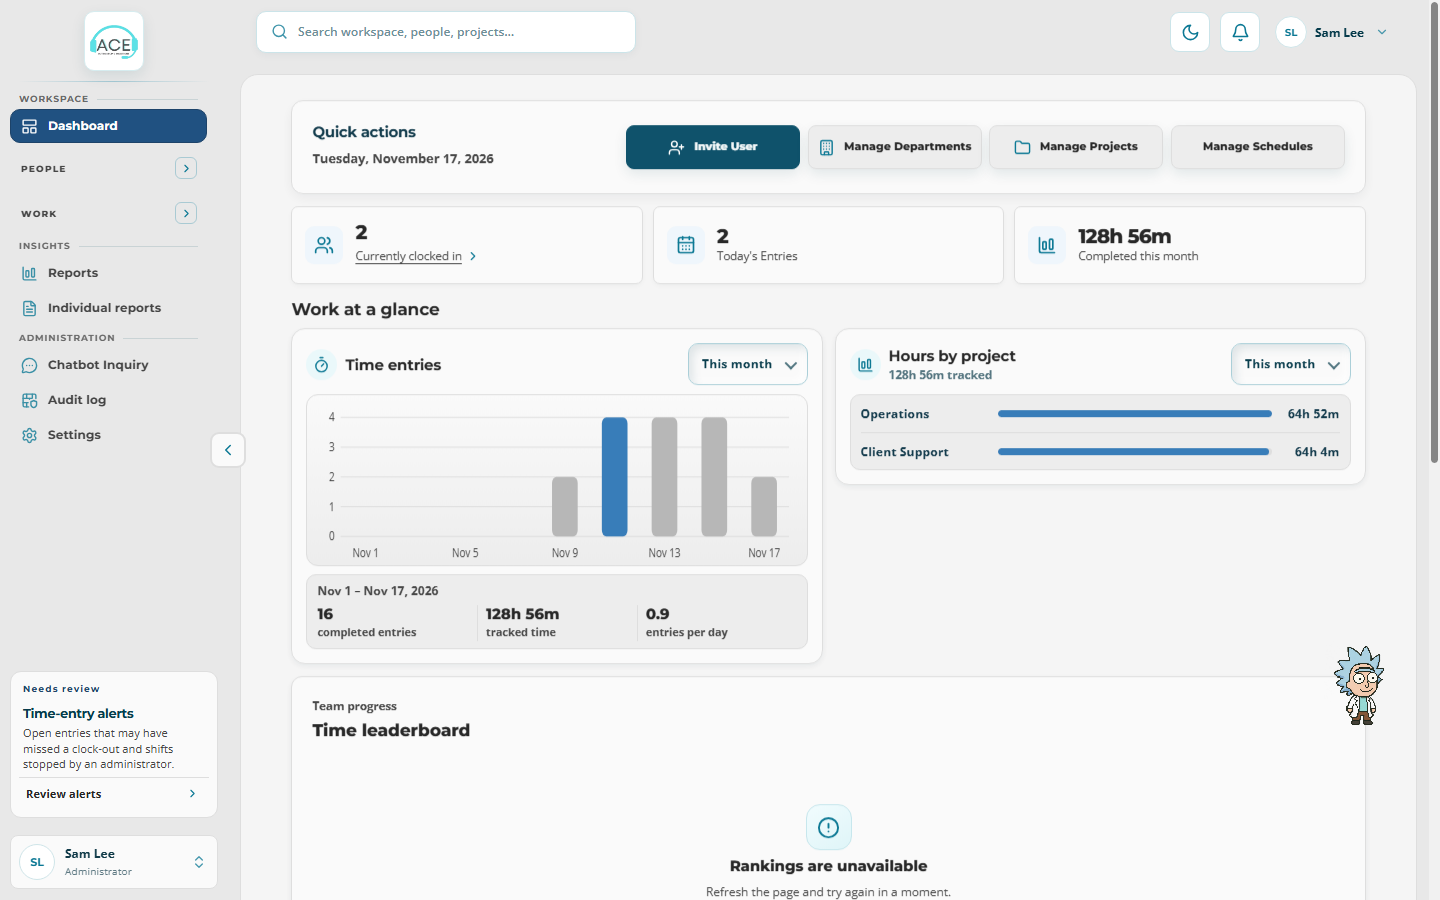
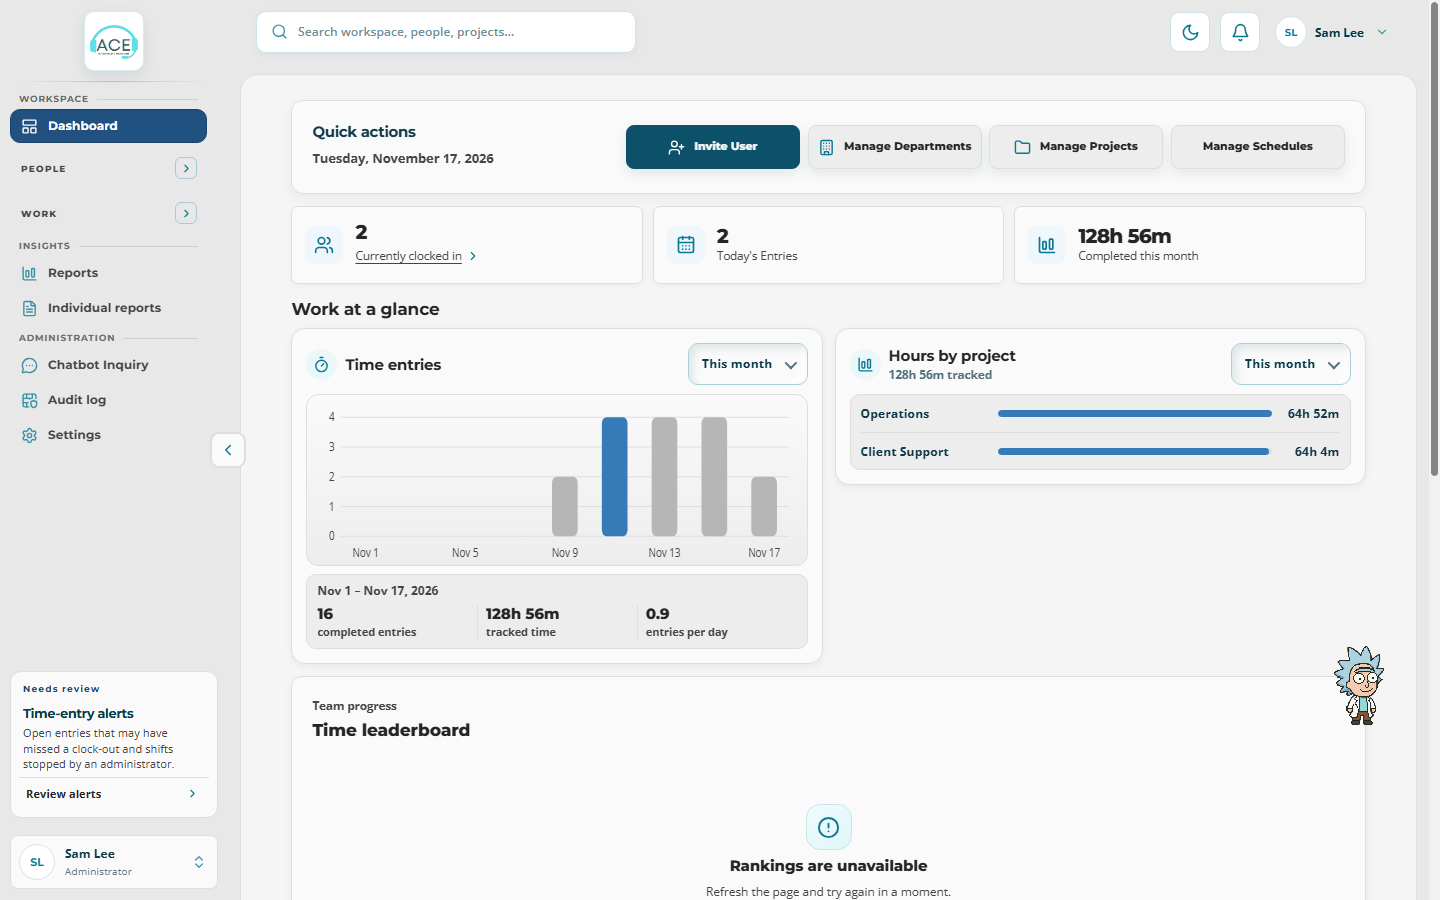
Replace card descriptions with compact help tips

Changed region(s): [[0.5312, 0.9956, 0.5938, 1.0], [0.25, 0.28, 0.3125, 0.3111]]

diff --git a/frontend/js/script.js b/frontend/js/script.js
@@ -1254,7 +1254,109 @@ function mountRelatedPageTabs() {
     }
 }
 
+// Move supporting copy into a shared help tip for compact workspace headers.
+const cardTipHeaders = [
+    '.dashboard-section-heading', '.admin-section-header', '.employee-section-heading',
+    '.schedule-card-heading', '.table-header', '.active-entries-heading-copy',
+    '.settings-header', '.reports-header', '.shell-sidebar-updates-panel'
+].join(',');
+let cardTipSequence = 0;
+let openCardTip;
+let pinnedCardTip;
+
+function closeCardTip() {
+    if (!openCardTip) return;
+    const { tip } = openCardTip;
+    openCardTip = null;
+    pinnedCardTip = null;
+    if (tip.matches(':popover-open')) tip.hidePopover();
+    tip.hidden = true;
+}
+
+function showCardTip(control) {
+    if (openCardTip?.button === control.button) return;
+    closeCardTip();
+    const { button, tip, description } = control;
+    tip.textContent = description.textContent.trim();
+    if (!tip.textContent) return;
+    tip.hidden = false;
+    if (tip.showPopover) tip.showPopover();
+    const anchor = button.getBoundingClientRect();
+    const width = tip.offsetWidth;
+    const left = Math.max(8, Math.min(anchor.left, document.documentElement.clientWidth - width - 8));
+    const top = anchor.bottom + tip.offsetHeight + 8 < window.innerHeight
+        ? anchor.bottom + 6 : Math.max(8, anchor.top - tip.offsetHeight - 6);
+    tip.style.left = left + 'px';
+    tip.style.top = top + 'px';
+    openCardTip = control;
+}
+
+function initializeCardTips(root) {
+    const headers = new Set(root.querySelectorAll(cardTipHeaders));
+    const parentHeader = root.closest?.(cardTipHeaders);
+    if (parentHeader) headers.add(parentHeader);
+    headers.forEach(header => {
+        if (header.dataset.cardTipReady) return;
+        const heading = header.querySelector(':scope > h1, :scope > h2, :scope > div > h1, :scope > div > h2');
+        if (!heading) return;
+        const description = heading.nextElementSibling || (heading.parentElement !== header ? heading.parentElement.nextElementSibling : null);
+        if (!description?.matches('p:not([role]):not([aria-live])') || !description.textContent.trim()) return;
+
+        header.dataset.cardTipReady = 'true';
+        const titleRow = document.createElement('div');
+        titleRow.className = 'card-heading-line';
+        heading.before(titleRow);
+        titleRow.append(heading);
+        const button = document.createElement('button');
+        button.type = 'button';
+        button.className = 'card-tip-button';
+        button.setAttribute('aria-label', 'About ' + heading.textContent.trim());
+        button.innerHTML = suppliedIconMarkup('info', 'ui-icon');
+        if (!description.id) description.id = 'aceCardTip' + (++cardTipSequence);
+        button.setAttribute('aria-describedby', description.id);
+        description.hidden = true;
+        description.classList.add('card-tip-source');
+        titleRow.append(button);
+
+        const tip = document.createElement('span');
+        tip.className = 'card-tip-popup';
+        tip.setAttribute('aria-hidden', 'true');
+        tip.setAttribute('popover', 'manual');
+        tip.hidden = true;
+        titleRow.append(tip);
+        const control = { button, tip, description };
+        button.addEventListener('pointerenter', event => {
+            if (event.pointerType !== 'touch') showCardTip(control);
+        });
+        button.addEventListener('pointerleave', () => {
+            if (openCardTip === control && pinnedCardTip !== control && document.activeElement !== button) closeCardTip();
+        });
+        button.addEventListener('focus', () => showCardTip(control));
+        button.addEventListener('blur', () => {
+            if (openCardTip === control) closeCardTip();
+        });
+        button.addEventListener('click', () => {
+            if (pinnedCardTip === control) { closeCardTip(); return; }
+            showCardTip(control);
+            if (openCardTip === control) pinnedCardTip = control;
+        });
+    });
+}
+
+document.addEventListener('pointerdown', event => {
+    if (openCardTip && !openCardTip.button.contains(event.target)) closeCardTip();
+}, true);
+document.addEventListener('keydown', event => {
+    if (event.key === 'Escape' && openCardTip) {
+        event.preventDefault();
+        closeCardTip();
+    }
+});
+window.addEventListener('scroll', closeCardTip, { capture: true, passive: true });
+window.addEventListener('resize', closeCardTip);
+
 function initializeUXEnhancements() {
+    initializeCardTips(document);
     mountRelatedPageTabs();
     document.querySelectorAll('.modal').forEach(modal => {
         modal.setAttribute('role', 'dialog');
@@ -1283,7 +1385,13 @@ function initializeUXEnhancements() {
             mutations.forEach(mutation => mutation.addedNodes.forEach(node => {
                 if (node.nodeType === Node.ELEMENT_NODE) roots.add(node);
             }));
-            roots.forEach(root => applyTableLabels(root.closest?.('table') || root));
+            roots.forEach(root => {
+                applyTableLabels(root.closest?.('table') || root);
+                if (root.isConnected) initializeCardTips(root);
+            });
+            mutations.forEach(({ target }) => {
+                if (target.id === 'sectionDescription') initializeCardTips(target);
+            });
         });
         window.__aceTableLabelObserver.observe(document.body, { childList: true, subtree: true });
     }

diff --git a/frontend/css/app.css b/frontend/css/app.css
@@ -18512,3 +18512,67 @@ html[data-theme="dark"] .admin-dashboard .project-allocation-card .project-alloc
 @media (max-height: 560px) {
   .shell-sidebar-review-description { display: none; }
 }
+
+/* Keep supporting copy available without reserving a row in every card header. */
+.card-tip-source[hidden], .card-tip-popup[hidden] { display: none!important; }
+.card-heading-line {
+  display: flex;
+  align-items: center;
+  justify-content: flex-start;
+  gap: 7px;
+  min-width: 0;
+  text-align: start;
+}
+.card-heading-line > :is(h1, h2) {
+  width: auto;
+  min-width: 0;
+  margin: 0;
+  text-align: start;
+}
+.dashboard-section-heading[data-card-tip-ready] > div:first-child { text-align: start; }
+.admin-dashboard .dashboard-section-heading[data-card-tip-ready] .section-title { text-align: start; }
+.admin-dashboard .dashboard-section > .dashboard-section-heading[data-card-tip-ready] {
+  padding-block: 13px;
+}
+.card-tip-button {
+  box-sizing: border-box;
+  flex: 0 0 24px;
+  display: inline-grid;
+  place-items: center;
+  width: 24px;
+  height: 24px;
+  padding: 0;
+  border: 1px solid transparent;
+  border-radius: 50%;
+  background: transparent;
+  color: var(--ace-text-secondary);
+}
+.card-tip-button .ui-icon { width: 14px; height: 14px; }
+.card-tip-button:is(:hover, :focus-visible) {
+  background: var(--ace-accent-muted);
+  border-color: var(--ace-border);
+}
+.card-tip-button:focus-visible { outline: 2px solid var(--ace-accent); outline-offset: 2px; }
+html[data-theme="dark"] .card-tip-button img { filter: brightness(0) invert(1); }
+.card-tip-popup {
+  position: fixed;
+  inset: auto;
+  z-index: 8500;
+  box-sizing: border-box;
+  width: max-content;
+  max-width: min(276px, calc(100vw - 16px));
+  margin: 0;
+  padding: 8px 10px;
+  border: 1px solid var(--ace-border-strong);
+  border-radius: 9px;
+  color: var(--ace-text-primary);
+  background: var(--ace-surface-modal);
+  box-shadow: var(--ace-shadow-md);
+  font: 500 .78rem/1.45 'Open Sans', Arial, sans-serif;
+  text-align: start;
+  white-space: normal;
+  pointer-events: none;
+}
+@media (pointer: coarse) {
+  .card-tip-button { width: 32px; height: 32px; flex-basis: 32px; }
+}
